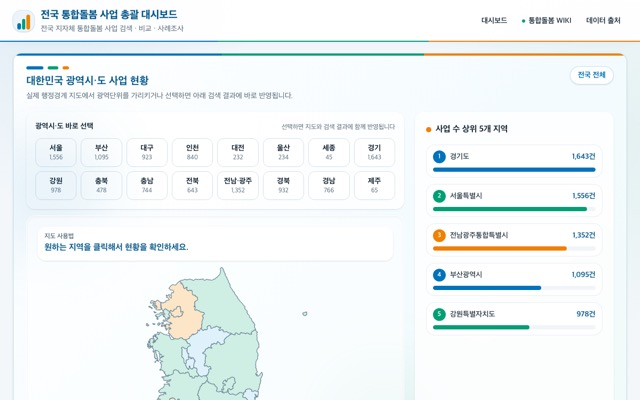
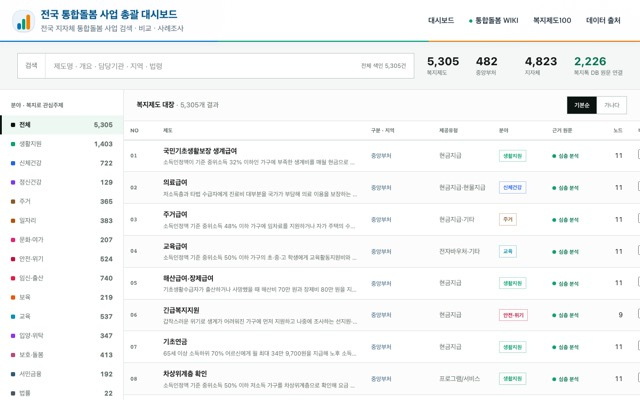
feat: 가재코드 치트시트 등재 + 통합돌봄 대시보드 보강 (총 475건)
- 치트시트: 공직 커뮤니티가 만든 코딩 에이전트 사용법 자료가 원 저장소에 PR로 반영된 첫 관측, 평가 477
- 통합돌봄: 복지제도100 화면(복지로·복지톡 자료를 분야·생애주기·가구상황으로 탐색) 반영, 썸네일 재생성

Claude-Session: https://claude.ai/code/session_01UzE1ZB24modLJDCrQLPeF8

diff --git a/site/case/157289f6e0cd7fd4.html b/site/case/157289f6e0cd7fd4.html
@@ -1,0 +1,73 @@
+<!DOCTYPE html>
+<html lang="ko">
+<head>
+  <meta charset="utf-8">
+  <meta name="viewport" content="width=device-width, initial-scale=1">
+  <title>가재코드 치트시트 — 코딩 에이전트 사용법을 한 장으로 정리해 공식 저장소에 반영된 커뮤니티 기여물 — 모두의 공공AX</title>
+  <meta name="description" content="공직 커뮤니티에서 널리 쓰이는 자율 코딩 에이전트의 명령과 흐름을 한 장으로 정리한 치트시트다. 한국어와 영어 두 판을 전체 한 장짜리와 A4 세 쪽 분할본으로 나눠 인쇄해 쓰기 좋게 했고, 원 저장소에 끌어오기 요청으로 반영돼 공식 문서 자리에 들어갔다. 도구를 쓰는">
+  <link rel="canonical" href="https://hollobit.github.io/PAX/case/157289f6e0cd7fd4.html">
+  <meta property="og:type" content="article">
+  <meta property="og:title" content="가재코드 치트시트 — 코딩 에이전트 사용법을 한 장으로 정리해 공식 저장소에 반영된 커뮤니티 기여물">
+  <meta property="og:description" content="공직 커뮤니티에서 널리 쓰이는 자율 코딩 에이전트의 명령과 흐름을 한 장으로 정리한 치트시트다. 한국어와 영어 두 판을 전체 한 장짜리와 A4 세 쪽 분할본으로 나눠 인쇄해 쓰기 좋게 했고, 원 저장소에 끌어오기 요청으로 반영돼 공식 문서 자리에 들어갔다. 도구를 쓰는">
+  <meta property="og:url" content="https://hollobit.github.io/PAX/case/157289f6e0cd7fd4.html">
+  <meta property="og:site_name" content="모두의 공공AX 사례 아카이브">
+  <link rel="stylesheet" href="../style.css">
+</head>
+<body>
+  <header class="site-header">
+    <p class="eyebrow">PUBLIC SECTOR AX CASE · 사례 157289f6e0cd7fd4</p>
+    <h1>가재코드 치트시트 — 코딩 에이전트 사용법을 한 장으로 정리해 공식 저장소에 반영된 커뮤니티 기여물</h1>
+<nav class="site-nav" aria-label="주요 메뉴">
+      <a href="../">사례 아카이브</a>
+      <a href="../dashboard.html">AX 평가</a>
+      <a href="../champions.html">챔피언</a>
+      <a href="../ax-maturity-infographic.html">AX 성숙도 개념</a>
+      <a href="../observatory.html">관측소</a>
+      <a href="../gap-map.html">격차 지도</a>
+      <a href="../mcp-review.html">MCP 검증</a>
+      <a href="../playbook.html">전이 플레이북</a>
+      <a href="../guidelines.html">안내서·가이드라인</a>
+      <a href="../videos.html">공유 동영상</a>
+      <a href="../news.html">공유 뉴스</a>
+      <a href="../changelog.html">변경 기록</a>
+    </nav>
+    <nav class="site-nav site-nav--external" aria-label="관련 사이트">
+      <a href="https://hollobit.github.io/GAPI2/ecosystem.html" target="_blank" rel="noopener">MCP·AI 도구 ↗</a>
+      <a href="https://ax360.kr/national-ax-project/card" target="_blank" rel="noopener">AX 사업 찾기 ↗</a>
+      <a href="https://ax360.kr/national-ai-resource/model" target="_blank" rel="noopener">AX 자원 찾기 ↗</a>
+      <a href="https://ax360.kr/private-ai-company/heatmap" target="_blank" rel="noopener">AI 기업 찾기 ↗</a>
+      <a href="https://axboard.aigov.go.kr/" target="_blank" rel="noopener">AI 정부실험실 ↗</a>
+      <a href="https://aitestbed.kr/main-page" target="_blank" rel="noopener">모두의 AI 실험실 ↗</a>
+    </nav>
+  </header>
+  <main class="case-page">
+    <section class="obs-section">
+      <p class="case-page__meta">공직 커뮤니티 · 커뮤니티 · 공통·범용 · 2026-09-23 게시</p>
+      <p class="case-page__summary">공직 커뮤니티에서 널리 쓰이는 자율 코딩 에이전트의 명령과 흐름을 한 장으로 정리한 치트시트다. 한국어와 영어 두 판을 전체 한 장짜리와 A4 세 쪽 분할본으로 나눠 인쇄해 쓰기 좋게 했고, 원 저장소에 끌어오기 요청으로 반영돼 공식 문서 자리에 들어갔다. 도구를 쓰는 쪽에서 만든 자료가 만드는 쪽 저장소로 되돌아간 사례다.</p>
+      <p class="case-page__links"><a href="https://github.com/Yeachan-Heo/gajae-code" target="_blank" rel="noopener">사례 대상 바로가기</a> · <a href="https://github.com/Yeachan-Heo/gajae-code/tree/main/docs/cheatsheet" target="_blank" rel="noopener">공유 링크</a> · <a href="../?case=157289f6e0cd7fd4">아카이브에서 보기</a></p>
+    </section>
+    <section class="obs-section">
+      <h2 class="obs-heading">4축 평가</h2>
+      <p>평가 데이터 없음</p>
+      <p class="obs-note"></p>
+    </section>
+    <section class="obs-section">
+      <h2 class="obs-heading">실무 도입 카드</h2>
+      <div class="obs-cards">
+        <div class="obs-card"><p class="obs-card__label">필요한 것</p><p class="obs-card__note">실행환경: AI 도구 설정 · 망 요건: 인터넷 필수 · 라이선스: MIT</p></div>
+        <div class="obs-card"><p class="obs-card__label">첫 3단계</p><p class="obs-card__note">① 스킬·GEM 파일 확보 → ② 내 AI 도구에 등록 → ③ 실제 업무 문서로 출력 품질 검증</p></div>
+        <div class="obs-card"><p class="obs-card__label">주의사항</p><p class="obs-card__note">성과 수치는 출처가 확인된 것만 신뢰하세요</p></div>
+      </div>
+      <p class="obs-note">전이 절차(보안검토→품의→배포)는 <a href="../playbook.html">전이 플레이북</a>을 참고하세요.</p>
+    </section>
+    <section class="obs-section">
+      <h2 class="obs-heading">비슷한 업무의 사례</h2>
+      <ul class="case-page__related"><li><a href="6f376e827405e328.html">화면 기록형 매크로 도구 공개 — 공공 AX 로컬 시리즈 4</a></li><li><a href="7acf5f25369c1401.html">시연 영상 제작 자동화 스킬 공유</a></li><li><a href="cbe008b504b9dd18.html">의학 연구 동료 AI 플러그인 ResearchFellow</a></li></ul>
+    </section>
+    <footer class="obs-note">
+      <p>출처: 모두의 공공AX 사례 아카이브 · 자기선택 표본 · 근거 없는 항목은 '미확인'으로 표기 ·
+      인용 시 이 페이지 URL을 사용하세요.</p>
+    </footer>
+  </main>
+</body>
+</html>

diff --git a/site/case/de85358ecf364f0a.html b/site/case/de85358ecf364f0a.html
@@ -4,11 +4,11 @@
   <meta charset="utf-8">
   <meta name="viewport" content="width=device-width, initial-scale=1">
   <title>전국 통합돌봄 사업 총괄 대시보드 — 지자체 사업을 분류·지역으로 걸러 비교하고 조건을 공유하는 화면 — 모두의 공공AX</title>
-  <meta name="description" content="전국 지자체가 벌이는 통합돌봄 사업을 광역·기초 단위와 사업 분류로 걸러 찾고 견주는 대시보드다. 식사지원·병원동행·주거지원처럼 자주 찾는 갈래를 버튼으로 두고, 결과를 CSV로 내려받거나 현재 검색 조건을 링크로 공유할 수 있다. 분류는 보건복지부 공식 메뉴판 대분류">
+  <meta name="description" content="전국 지자체가 벌이는 통합돌봄 사업을 광역·기초 단위와 사업 분류로 걸러 찾고 견주는 대시보드다. 식사지원·병원동행·주거지원처럼 자주 찾는 갈래를 버튼으로 두고, 결과를 CSV로 내려받거나 현재 검색 조건을 링크로 공유할 수 있다. 복지제도100 화면을 따로 두어 복지">
   <link rel="canonical" href="https://hollobit.github.io/PAX/case/de85358ecf364f0a.html">
   <meta property="og:type" content="article">
   <meta property="og:title" content="전국 통합돌봄 사업 총괄 대시보드 — 지자체 사업을 분류·지역으로 걸러 비교하고 조건을 공유하는 화면">
-  <meta property="og:description" content="전국 지자체가 벌이는 통합돌봄 사업을 광역·기초 단위와 사업 분류로 걸러 찾고 견주는 대시보드다. 식사지원·병원동행·주거지원처럼 자주 찾는 갈래를 버튼으로 두고, 결과를 CSV로 내려받거나 현재 검색 조건을 링크로 공유할 수 있다. 분류는 보건복지부 공식 메뉴판 대분류">
+  <meta property="og:description" content="전국 지자체가 벌이는 통합돌봄 사업을 광역·기초 단위와 사업 분류로 걸러 찾고 견주는 대시보드다. 식사지원·병원동행·주거지원처럼 자주 찾는 갈래를 버튼으로 두고, 결과를 CSV로 내려받거나 현재 검색 조건을 링크로 공유할 수 있다. 복지제도100 화면을 따로 두어 복지">
   <meta property="og:url" content="https://hollobit.github.io/PAX/case/de85358ecf364f0a.html">
   <meta property="og:site_name" content="모두의 공공AX 사례 아카이브">
   <link rel="stylesheet" href="../style.css">
@@ -43,8 +43,8 @@
   <main class="case-page">
     <section class="obs-section">
       <p class="case-page__meta">공직 현장(개인 개발) · 공직 개인 · 데이터·통계 · 2026-09-23 게시</p>
-      <p class="case-page__summary">전국 지자체가 벌이는 통합돌봄 사업을 광역·기초 단위와 사업 분류로 걸러 찾고 견주는 대시보드다. 식사지원·병원동행·주거지원처럼 자주 찾는 갈래를 버튼으로 두고, 결과를 CSV로 내려받거나 현재 검색 조건을 링크로 공유할 수 있다. 분류는 보건복지부 공식 메뉴판 대분류를 따르고 표에 분류가 없을 때만 사업명과 내용으로 보완한다고 기준을 밝혔으며, 오류 제보 창구를 화면에 두었다.</p>
-      <p class="case-page__links"><a href="https://integrated-care-national-dashboard.xgfox54.chatgpt.site/" target="_blank" rel="noopener">사례 대상 바로가기</a> · <a href="https://integrated-care-national-dashboard.xgfox54.chatgpt.site/" target="_blank" rel="noopener">공유 링크</a> · <a href="../?case=de85358ecf364f0a">아카이브에서 보기</a></p>
+      <p class="case-page__summary">전국 지자체가 벌이는 통합돌봄 사업을 광역·기초 단위와 사업 분류로 걸러 찾고 견주는 대시보드다. 식사지원·병원동행·주거지원처럼 자주 찾는 갈래를 버튼으로 두고, 결과를 CSV로 내려받거나 현재 검색 조건을 링크로 공유할 수 있다. 복지제도100 화면을 따로 두어 복지로의 중앙부처·지자체 서비스와 복지톡 자료를 분야·생애주기·가구상황으로 훑게 했고, 분류는 보건복지부 공식 메뉴판 대분류를 따르며 사업 수가 수혜자나 예산을 뜻하지 않는다고 못 박았다.</p>
+      <p class="case-page__links"><a href="https://integrated-care-national-dashboard.xgfox54.chatgpt.site/welfare100" target="_blank" rel="noopener">사례 대상 바로가기</a> · <a href="https://integrated-care-national-dashboard.xgfox54.chatgpt.site/" target="_blank" rel="noopener">공유 링크</a> · <a href="../?case=de85358ecf364f0a">아카이브에서 보기</a></p>
     </section>
     <section class="obs-section">
       <h2 class="obs-heading">4축 평가</h2>
